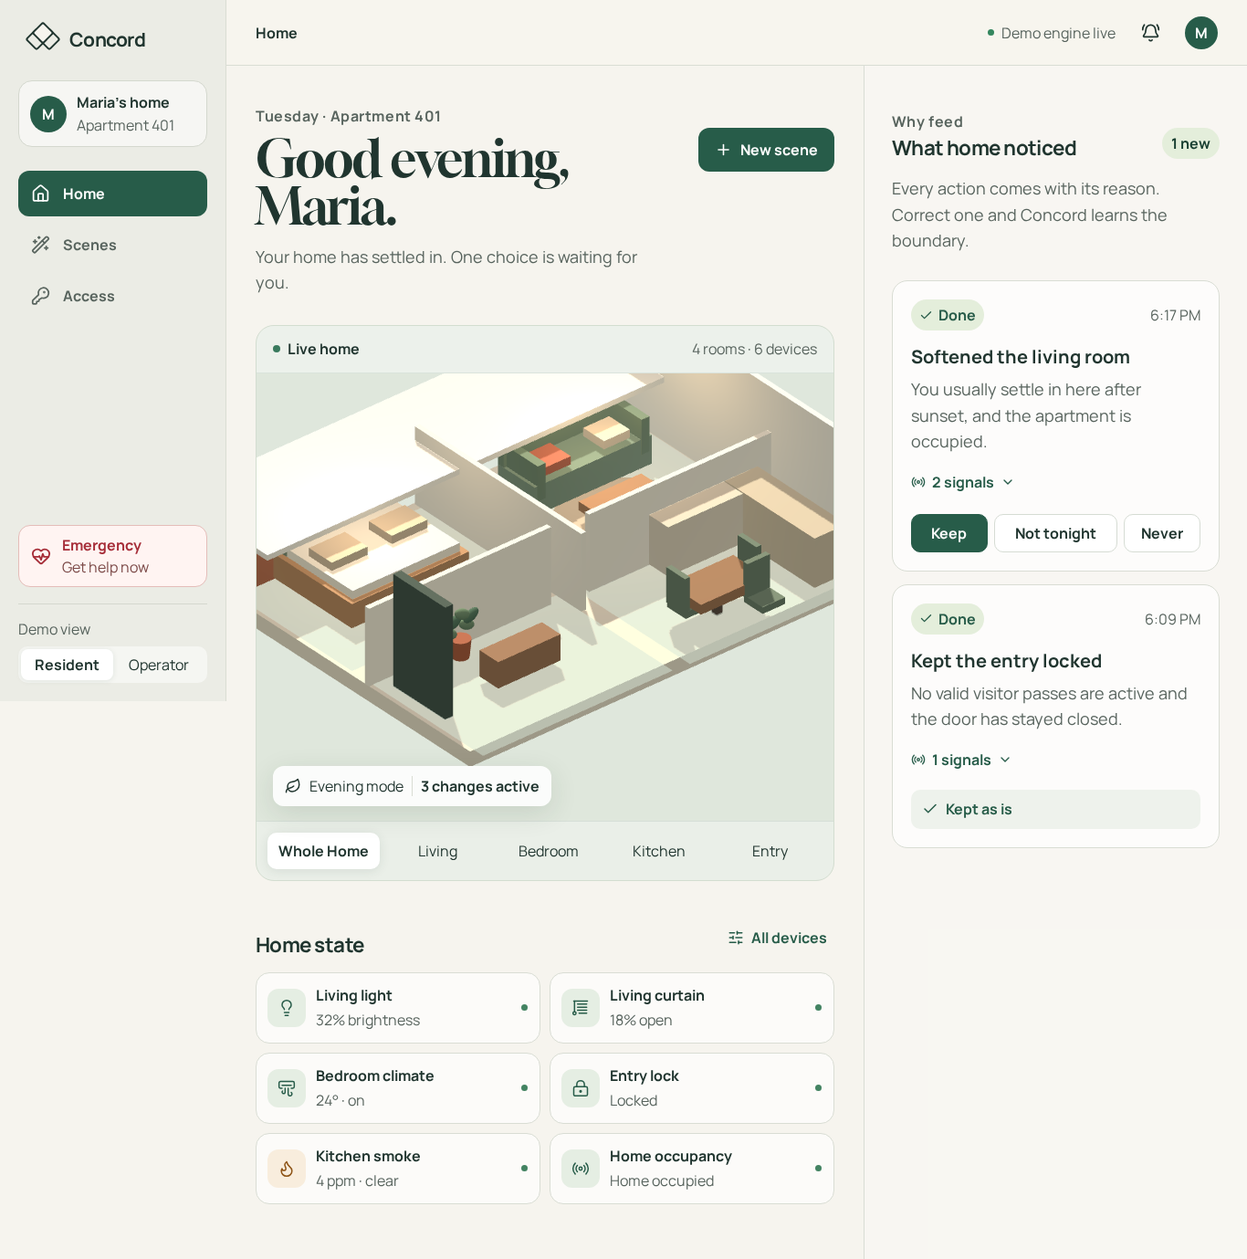
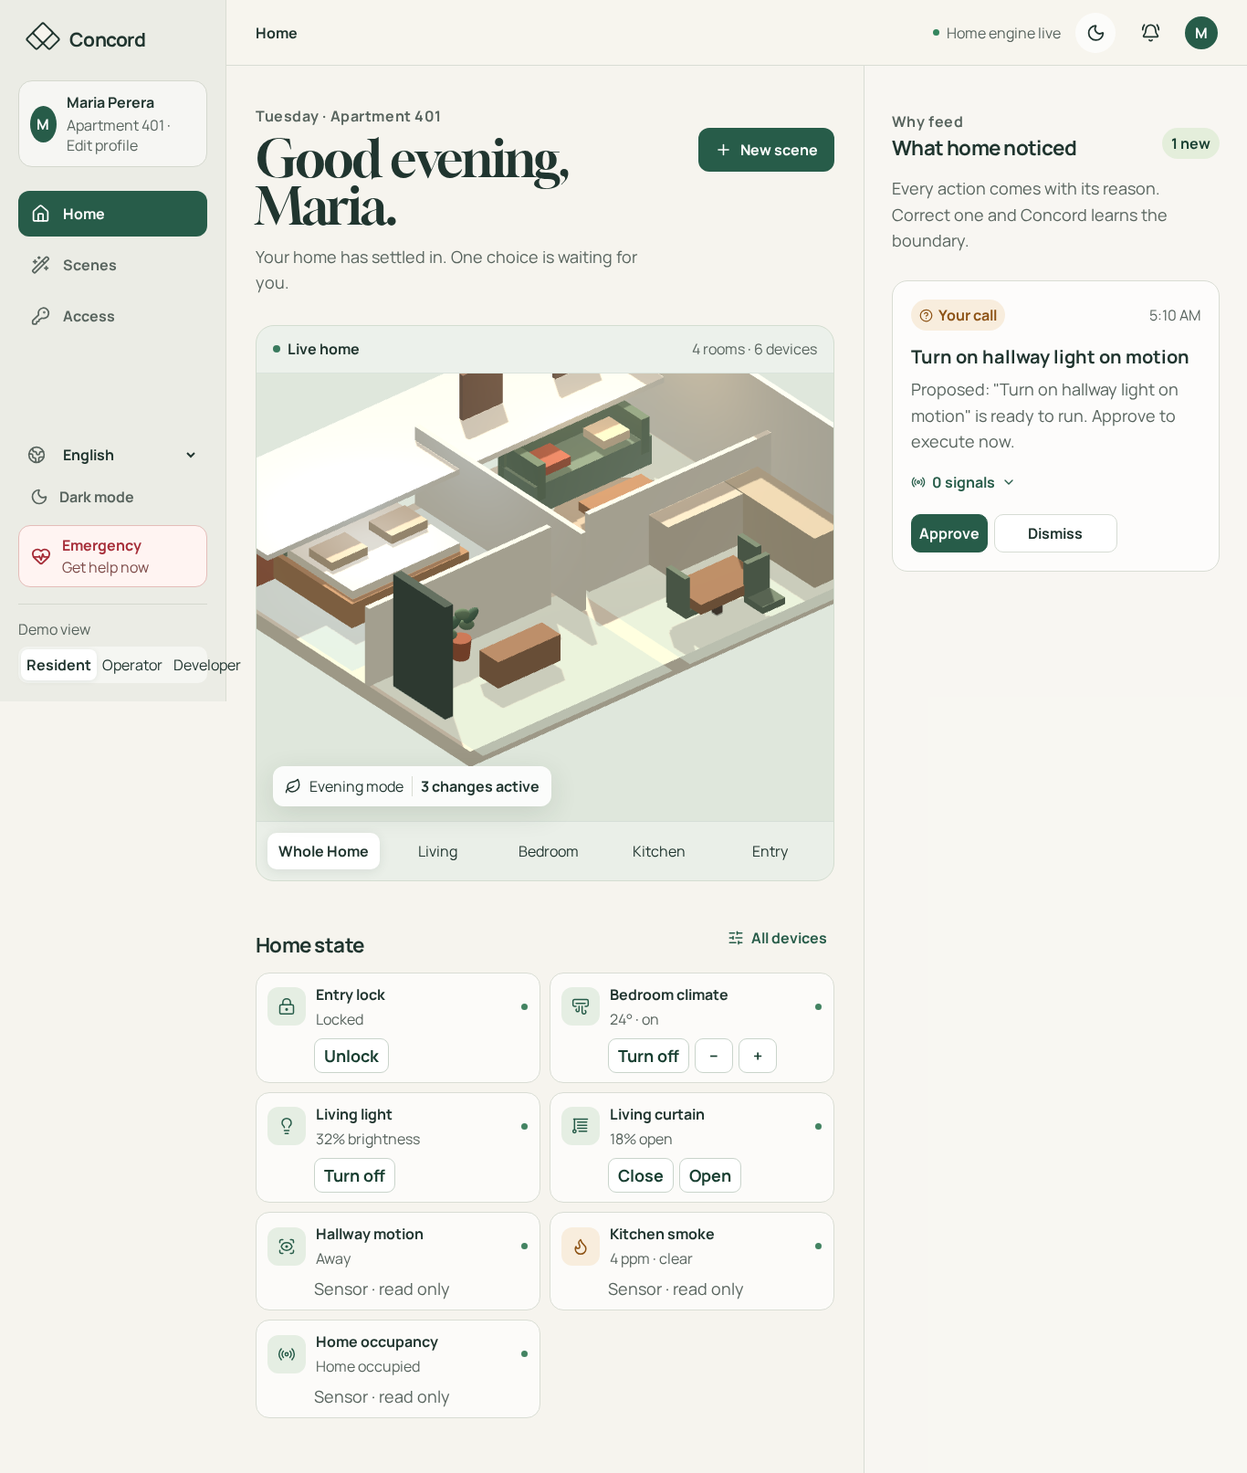
fix: integrate and verify Concord feature suite

diff --git a/src/styles.css b/src/styles.css
@@ -101,7 +101,7 @@ p { color: var(--muted); line-height: 1.58; }
 .desktop-topbar > div { display: flex; align-items: center; gap: 16px; }
 .connection { font-size: 16px; color: var(--muted); display: flex; align-items: center; gap: 8px; }
 .connection i { width: 7px; height: 7px; background: #34865e; border-radius: 50%; }
-.connection.reconnecting i { background: #b47b2a; animation: pulse 1.2s ease-in-out infinite; }.connection.stale i, .connection.offline i { background: #b6534f; }
+.connection.reconnecting i { background: #b47b2a; animation: pulse 280ms ease-out 2; }.connection.stale i, .connection.offline i { background: #b6534f; }
 .connection-banner { min-height: 48px; display: flex; align-items: center; justify-content: center; gap: 10px; padding: 8px 20px; color: #69442c; background: #fff0d8; border-bottom: 1px solid #e5c69b; font-size: 16px; }.connection-banner svg { width: 18px; }.connection-banner button { border: 0; background: transparent; color: var(--primary-dark); font-weight: 800; text-decoration: underline; cursor: pointer; font-size: 16px; }
 @keyframes pulse { 50% { opacity: .35; } }
 .notification-button, .icon-button { border: 0; background: transparent; cursor: pointer; width: 44px; height: 44px; display: grid; place-content: center; border-radius: 50%; }
@@ -317,14 +317,14 @@ input, select { min-height: 50px; border: 1px solid #cfd5cd; border-radius: 11px
 .notification-meta { display: flex; align-items: center; gap: 12px; color: var(--muted); font-size: 16px; }.notification-meta time { margin-left: auto; }
 .notification-row .secondary-button { min-height: 42px; white-space: nowrap; }.read-state { display: flex; align-items: center; gap: 6px; color: var(--muted); font-size: 16px; }.read-state svg { width: 17px; }
 .empty-notifications { text-align: center; padding: 90px 20px; }.empty-notifications > svg { width: 52px; height: 52px; color: var(--primary); stroke-width: 1.3; }.empty-notifications h2 { margin: 18px 0 8px; }
-.notification-skeleton { display: grid; gap: 1px; margin-top: 20px; }.notification-skeleton span { height: 110px; border-radius: 12px; background: color-mix(in srgb, var(--line) 45%, transparent); animation: pulse 1.3s ease-in-out infinite; }
+.notification-skeleton { display: grid; gap: 1px; margin-top: 20px; }.notification-skeleton span { height: 110px; border-radius: 12px; background: color-mix(in srgb, var(--line) 45%, transparent); animation: pulse 280ms ease-out 2; }
 .developer-view { min-height: calc(100dvh - 72px); max-width: 1560px; margin: 0 auto; padding: 50px clamp(22px, 4vw, 64px) 72px; }
 .developer-heading { display: flex; align-items: flex-end; justify-content: space-between; gap: 30px; }.developer-heading h1 { max-width: 800px; font-size: 4rem; }.developer-heading p { max-width: 720px; margin-bottom: 0; }.portfolio-updated { display: flex; align-items: center; gap: 8px; color: var(--muted); font-size: 16px; padding-bottom: 8px; }
 .portfolio-overview { display: grid; grid-template-columns: minmax(250px,.65fr) minmax(650px,2fr); gap: 1px; margin: 38px 0; overflow: hidden; border: 1px solid var(--line); border-radius: 17px; background: var(--line); }
 .portfolio-primary, .portfolio-measures > div { background: var(--surface); }.portfolio-primary { padding: 28px; display: flex; flex-direction: column; justify-content: center; }.portfolio-primary > strong { font-size: 56px; letter-spacing: -.04em; line-height: 1; }.portfolio-primary > strong small { font-size: 24px; color: var(--muted); }.portfolio-primary > span { margin-top: 10px; font-weight: 800; }.portfolio-primary p { margin: 5px 0 0; font-size: 16px !important; }
 .portfolio-measures { display: grid; grid-template-columns: repeat(4,1fr); gap: 1px; background: var(--line); }.portfolio-measures > div { min-width: 0; padding: 24px 18px; display: flex; align-items: flex-start; gap: 12px; }.portfolio-measures svg { width: 22px; color: var(--primary); flex: 0 0 auto; }.portfolio-measures span { min-width: 0; display: flex; flex-direction: column; color: var(--muted); font-size: 16px; }.portfolio-measures strong { color: var(--ink); font-size: 19px; margin-top: 9px; }.portfolio-measures small { margin-top: 4px; line-height: 1.4; }
 .developer-grid { display: grid; grid-template-columns: minmax(650px,1.55fr) minmax(300px,.65fr); gap: 34px; }.portfolio-table-section .section-heading > span { color: var(--muted); font-size: 16px; }.portfolio-table { border-top: 1px solid var(--line); }.portfolio-tr { min-height: 62px; display: grid; grid-template-columns: .65fr 1fr 1.1fr 1.2fr .8fr; gap: 12px; align-items: center; border-bottom: 1px solid var(--line); font-size: 16px; }.portfolio-th { min-height: 46px; color: var(--muted); font-weight: 700; }.fleet-label { display: flex; align-items: center; gap: 7px; text-transform: capitalize; }.fleet-label i { width: 8px; height: 8px; border-radius: 50%; background: #3d815f; }.fleet-label.attention i { background: var(--warning); }.fleet-label.anomaly i { background: var(--danger); }
-.portfolio-alerts { border-left: 1px solid var(--line); padding-left: 28px; }.portfolio-alerts .section-heading svg { width: 20px; color: var(--primary); }.portfolio-alerts article { display: grid; grid-template-columns: 42px 1fr; gap: 12px; padding: 18px 0; border-bottom: 1px solid var(--line); }.alert-mark { width: 40px; height: 40px; border-radius: 12px; display: grid; place-items: center; color: var(--warning); background: var(--warning-soft); }.alert-mark.anomaly { color: var(--danger); background: var(--danger-soft); }.alert-mark svg { width: 19px; }.portfolio-alerts p { margin: 5px 0; font-size: 16px !important; }.portfolio-alerts small { color: var(--muted); font-size: 16px; }.portfolio-loading { display: grid; grid-template-columns: .7fr 1fr 1fr; gap: 10px; margin-top: 40px; }.portfolio-loading span { height: 160px; border-radius: 15px; background: color-mix(in srgb, var(--line) 45%, transparent); animation: pulse 1.3s ease-in-out infinite; }.developer-error { margin-top: 30px; }
+.portfolio-alerts { border-left: 1px solid var(--line); padding-left: 28px; }.portfolio-alerts .section-heading svg { width: 20px; color: var(--primary); }.portfolio-alerts article { display: grid; grid-template-columns: 42px 1fr; gap: 12px; padding: 18px 0; border-bottom: 1px solid var(--line); }.alert-mark { width: 40px; height: 40px; border-radius: 12px; display: grid; place-items: center; color: var(--warning); background: var(--warning-soft); }.alert-mark.anomaly { color: var(--danger); background: var(--danger-soft); }.alert-mark svg { width: 19px; }.portfolio-alerts p { margin: 5px 0; font-size: 16px !important; }.portfolio-alerts small { color: var(--muted); font-size: 16px; }.portfolio-loading { display: grid; grid-template-columns: .7fr 1fr 1fr; gap: 10px; margin-top: 40px; }.portfolio-loading span { height: 160px; border-radius: 15px; background: color-mix(in srgb, var(--line) 45%, transparent); animation: pulse 280ms ease-out 2; }.developer-error { margin-top: 30px; }
 .building-heading { display: flex; justify-content: space-between; gap: 30px; align-items: flex-end; }
 .building-heading p { margin-bottom: 0; }.building-heading .primary-button { margin-bottom: 6px; }
 .building-stats { display: grid; grid-template-columns: repeat(3, 1fr); gap: 12px; margin: 34px 0 46px; }
@@ -396,6 +396,7 @@ input, select { min-height: 50px; border: 1px solid #cfd5cd; border-radius: 11px
   .app-shell { grid-template-columns: 210px minmax(0,1fr); }.sidebar { width: 210px; padding-inline: 14px; }.app-content { grid-column: 2; }
   .home-view { grid-template-columns: minmax(500px,1.1fr) minmax(340px,.9fr); }.home-main { padding-inline: 24px; }.activity-panel { padding-inline: 22px; }
   .scene-wrap { min-height: 330px; }.unit-grid { grid-template-columns: repeat(3,1fr); }
+  .portfolio-overview { grid-template-columns: 1fr; }.portfolio-measures { grid-template-columns: repeat(2,1fr); }.developer-grid { grid-template-columns: 1fr; }.portfolio-alerts { border-left: 0; border-top: 1px solid var(--line); padding: 28px 0 0; }
 }
 
 @media (max-width: 900px) {
@@ -406,8 +407,9 @@ input, select { min-height: 50px; border: 1px solid #cfd5cd; border-radius: 11px
   .route-frame { min-height: calc(100vh - 136px); }.home-view, .scenes-view, .access-view { display: block; }.home-main, .scene-compose, .access-form { border-right: 0; }.home-main { padding: 26px 16px 36px; }.greeting { margin-bottom: 20px; }.greeting h1 { font-size: 2.7rem; }.greeting p { font-size: 16px; line-height: 1.5; }.new-scene { display: none; }
   .scene-wrap { height: 275px; min-height: 275px; }.home-stage { border-radius: 17px; }.scene-caption { left: 10px; bottom: 10px; padding: 8px 10px; }.scene-caption strong { display: none; }.room-tabs { padding: 8px; }.room-tabs button { flex: 0 0 auto; min-height: 38px; }.devices-section { padding-top: 32px; }.device-grid { grid-template-columns: 1fr 1fr; }.activity-panel { padding: 34px 16px 45px; border-top: 1px solid var(--line); }.activity-intro { margin-bottom: 20px; }.why-card { padding: 18px; }
   .home-main .devices-section { display: block; }
-  .scenes-view, .access-view { min-height: auto; }.scene-compose, .access-form { padding: 34px 16px 42px; }.scene-compose h1, .access-form h1 { font-size: 2.7rem; }.prompt-box { grid-template-columns: 25px 1fr; }.prompt-box button { grid-column: 1 / -1; justify-content: center; }.scene-preview { position: relative; top: auto; height: 520px; grid-template-rows: 54px minmax(0,1fr) auto; }.preview-canvas { min-height: 300px; }.pass-preview { min-height: 520px; padding: 40px 16px; }
+  .scenes-view, .access-view { min-height: auto; }.scene-compose, .access-form { padding: 34px 16px 42px; }.scene-compose h1, .access-form h1 { font-size: 2.7rem; }.prompt-box { grid-template-columns: 25px 1fr; }.prompt-box button { grid-column: 1 / -1; justify-content: center; }.scene-preview { position: relative; top: auto; height: 520px; grid-template-rows: 54px minmax(0,1fr) auto; }.preview-canvas { min-height: 300px; }.pass-preview { min-height: 520px; padding: 40px 16px; }.manual-grid { grid-template-columns: 1fr; }
   .building-view { padding: 34px 16px 50px; }.building-heading { display: block; }.building-heading .primary-button { margin-top: 18px; }.building-stats { grid-template-columns: 1fr; margin-block: 28px 35px; }.building-stats > div { min-height: 80px; }.unit-grid { grid-template-columns: repeat(2,1fr); }.unit-section .section-heading { align-items: flex-start; flex-direction: column; }.filter-row { width: 100%; }.filter-row button { flex: 1; }
+  .profile-view, .notifications-view, .developer-view { min-height: auto; padding: 34px 16px 52px; }.profile-intro { grid-template-columns: 80px 1fr; gap: 18px; }.profile-avatar-large { width: 80px; height: 80px; border-radius: 24px; font-size: 32px; }.profile-intro h1, .notifications-heading h1, .developer-heading h1 { font-size: 2.7rem; }.notifications-heading, .developer-heading { align-items: flex-start; flex-direction: column; }.notification-row { grid-template-columns: 42px minmax(0,1fr); }.notification-row > .secondary-button, .notification-row > .read-state { grid-column: 2; justify-self: start; }.notification-meta { align-items: flex-start; flex-direction: column; gap: 4px; }.notification-meta time { margin-left: 0; }.portfolio-measures { grid-template-columns: 1fr; }.portfolio-overview { min-width: 0; }.portfolio-table { overflow-x: auto; }.portfolio-tr { min-width: 720px; }.portfolio-updated { padding: 0; }
   .toast { bottom: 86px; left: 12px; right: 12px; min-width: 0; }.dialog-backdrop { align-items: end; padding: 0; }.dialog-panel { width: 100%; max-height: 92vh; border-radius: 20px 20px 0 0; }.rule-compare { grid-template-columns: 1fr; }.conflict-vs { min-height: 28px; }.sos-detail { grid-template-columns: 1fr; }.form-two { grid-template-columns: 1fr; }
 }
 
@@ -415,6 +417,7 @@ input, select { min-height: 50px; border: 1px solid #cfd5cd; border-radius: 11px
   .greeting h1 { font-size: 2.5rem; }.stage-heading > span { display: none; }.device-grid { grid-template-columns: 1fr; }.device-item:nth-child(n+5) { display: none; }
   .why-actions { grid-template-columns: 1fr 1.35fr 1fr; }.why-actions button { font-size: 16px; padding-inline: 5px; }.segmented { grid-template-columns: 1fr; }.segmented button { min-height: 48px; justify-content: flex-start; padding-left: 18px; }
   .receipt-title { grid-template-columns: 42px 1fr; }.draft-pill { display: none; }.rule-line { grid-template-columns: 72px 1fr; padding-inline: 15px; }.receipt-actions { display: grid; grid-template-columns: 1fr 1.5fr; }.unit-grid { grid-template-columns: 1fr 1fr; gap: 8px; }.unit-card { padding: 13px; min-height: 185px; }.building-heading h1 { font-size: 2.7rem; }
+  .mobile-header .notification-button { width: 38px; height: 38px; }.profile-intro { grid-template-columns: 1fr; }.manual-builder { padding: 16px; }.manual-builder-heading { flex-direction: column; }.scene-method { width: 100%; }.recurring-days > div { grid-template-columns: repeat(4,1fr); }.segmented.two { grid-template-columns: 1fr; }.visitor-card { padding: 18px; }.visitor-qr { width: 190px; height: 190px; }
 }
 
 @media (prefers-reduced-motion: reduce) {

diff --git a/src/App.tsx b/src/App.tsx
@@ -623,9 +623,9 @@ function App() {
   if (loadError && devices.length === 0) return <div className="boot-screen boot-error" role="alert"><BrandMark /><strong>{t('Home engine offline')}</strong><span>{loadError}</span><button className="primary-button" onClick={() => setRetryKey((value) => value + 1)}>{t('Retry connection')}</button></div>;
   const connectionCopy: Record<ConnectionState, string> = { live: t('Home engine live'), reconnecting: t('Reconnecting…'), stale: t('Data may be stale'), offline: t('Engine offline') };
   return <div className={`app-shell ${role}`}>
-    <header className="mobile-header"><button className="brand-mobile" onClick={() => { setRoute(role === 'operator' ? 'building' : 'home'); }}><BrandMark /><span>Concord</span></button><div><button className="icon-button" onClick={toggleTheme} aria-label={t(theme === 'light' ? 'Use dark mode' : 'Use light mode')}>{theme === 'light' ? <Moon /> : <Sun />}</button><button className="emergency-compact" onClick={() => setSosOpen(true)}><HeartPulse /> {t('Emergency')}</button><button className="icon-button" onClick={() => setMobileMenu((v) => !v)} aria-label={t('Open menu')}>{mobileMenu ? <X /> : <Menu />}</button></div></header>
+    <header className="mobile-header"><button className="brand-mobile" onClick={() => { setRoute(role === 'operator' ? 'building' : role === 'developer' ? 'developer' : 'home'); }}><BrandMark /><span>Concord</span></button><div><button className="notification-button" aria-label={t('Notifications')} onClick={() => { setRole('resident'); setRoute('notifications'); void refreshNotifications(); }}><BellRing />{notifications.some((item) => !item.read) && <span className="unread-badge">{Math.min(99, notifications.filter((item) => !item.read).length)}</span>}</button><button className="emergency-compact" onClick={() => setSosOpen(true)}><HeartPulse /> {t('Emergency')}</button><button className="icon-button" onClick={() => setMobileMenu((v) => !v)} aria-label={t('Open menu')}>{mobileMenu ? <X /> : <Menu />}</button></div></header>
     <aside className={`sidebar ${mobileMenu ? 'mobile-open' : ''}`}>
-      <button className="brand" onClick={() => setRoute(role === 'operator' ? 'building' : 'home')}><BrandMark /><span>Concord</span></button>
+      <button className="brand" onClick={() => setRoute(role === 'operator' ? 'building' : role === 'developer' ? 'developer' : 'home')}><BrandMark /><span>Concord</span></button>
       <button className="residence-chip" onClick={() => role === 'resident' && setRoute('profile')}><div className="residence-avatar">{role === 'resident' ? profile.photo ? <img src={profile.photo} alt="" /> : profile.name[0] : <Building2 />}</div><span><strong>{role === 'resident' ? profile.name : role === 'developer' ? t('Concord Portfolio') : 'Aster Tower'}</strong><small>{role === 'resident' ? t('Apartment 401 · Edit profile') : t(role === 'developer' ? 'Developer overview' : 'Building')}</small></span></button>
       <nav aria-label={t('Primary navigation')}>{role === 'resident' ? NAV.map(({ id, label, icon: Icon }) => <button key={id} className={route === id ? 'active' : ''} onClick={() => { setRoute(id); setMobileMenu(false); }}><Icon />{t(label)}</button>) : <button className="active"><LayoutGrid />{t(role === 'developer' ? 'Portfolio' : 'Building')}</button>}</nav>
       <div className="sidebar-spacer" />

diff --git a/qa/content-audit.md b/qa/content-audit.md
@@ -1,6 +1,6 @@
 # Concord content, readability and loading audit
 
-Audit target: production preview at `http://127.0.0.1:4192`, desktop 1440×900 and mobile 390×844. Evidence is from the final production bundle. `qa/text-floor.mjs` inspects every visible element with its own rendered text across Home, Scenes, Access and Building, plus the mobile Home viewport; it fails if any computed text size is below 16px.
+Audit target: production preview at `http://127.0.0.1:5190`, desktop 1440×900 and mobile 390×844. Evidence is from the final production bundle. `qa/text-floor.mjs` inspects every visible element with its own rendered text across Home, Scenes, Access and Building, plus the mobile Home viewport; it fails if any computed text size is below 16px. The 2026-09-17 browser suite additionally rendered Profile, Notifications, the manual builder, Developer portfolio and the standalone visitor pass at their responsive layouts.
 
 ## Typography evidence
 
@@ -32,6 +32,12 @@ Ratios use WCAG relative luminance against the actual stable surface colors. Mov
 
 All recorded information pairs exceed 4.5:1.
 
+Dark-mode tokens were checked against their actual stable surfaces after the feature
+suite landed: primary/muted text measure 16.12:1 and 9.99:1 on `#111815`, 14.26:1 and
+8.84:1 on `#1A2420`; primary-action, accent, danger and warning pairs measure 7.70:1,
+7.54:1, 7.06:1 and 7.51:1 respectively. The language switch was also rendered in Spanish
+before returning to English for the remaining functional checks.
+
 ## Section media accounting
 
 | Screen / section | C | V | Pairing / exemption |
@@ -42,6 +48,8 @@ All recorded information pairs exceed 4.5:1.
 | Scene builder + rule receipt | exempt | exempt | form/editor flow; live architectural preview is additional state evidence |
 | Visitor pass | exempt | exempt | form plus generated credential, not marketing content |
 | Building units | exempt | exempt | operational data grid |
+| Profile and Notifications | exempt | exempt | profile form and functional engine event list |
+| Developer portfolio | exempt | exempt | aggregate operational metrics, unit health table and alert list; no marketing claims or resident behavior |
 | Safety, SOS and handover dialogs | exempt | exempt | transactional/safety flows |
 
 The code-authored scene changes room emphasis and preview lighting, so these are distinct explanatory states rather than one repeated decorative image.
@@ -54,7 +62,8 @@ The code-authored scene changes room emphasis and preview lighting, so these are
 | `manrope-600.woff2` | eager CSS `@font-face`, `font-display: swap` | local, 14,172 bytes |
 | `manrope-700.woff2` | eager CSS `@font-face`, `font-display: swap` | local, 14,212 bytes |
 | `editorial-serif.woff2` | eager CSS `@font-face`, `font-display: swap` | local, 26,356 bytes |
-| `pass-qr.svg` | interaction-created `.qr-ticket img`; eager browser default because it is immediately visible when inserted | SVG viewBox 37×37; reserved by CSS at 195×195px, avoiding layout shift inside the already-sized ticket |
+| Generated pass QR data URL | interaction-created `.qr-ticket img` and standalone `.visitor-qr`; eager browser default because each is immediately visible when inserted | SVG dimensions derive from the encoded grant; CSS reserves 195×195px resident and 210×210px visitor slots, avoiding layout shift inside the already-sized cards |
+| Uploaded profile image | session-created object/data URL in `.profile-avatar-large img` and the resident avatar; eager because it is immediately visible after selection | constrained to JPEG/PNG/WebP up to 3 MB; fixed 112×112px desktop and 80×80px mobile containers prevent layout shift |
 | Three.js apartment | `.home-canvas`; initialized after shell mount | canvas fills a fixed-height `.scene-wrap`, DPR capped at 1.5; no network asset requests |
 | SVG fallback | `.scene-fallback`; forced with `?renderer=fallback` or WebGL failure/context loss | same scene container dimensions; room controls remain functional |
 

diff --git a/STUDIO.md b/STUDIO.md
@@ -307,3 +307,46 @@ Checkpoint evidence:
 - `qa/final/screenshots.json` covers desktop, laptop and mobile production-preview renders.
 - `qa/motion-final/motion.json` covers temporal desktop/mobile captures, reduced motion,
   WebGL state reporting and the forced non-canvas fallback.
+
+## Resident, visitor and developer feature suite — 2026-09-17
+
+The existing resident/operator experience and live automation loop remain intact. The
+suite was delivered as one reviewable commit per requested feature:
+
+- `eb996ad`: system-aware light/dark theme with an explicit persisted choice.
+- `f5b9a50`: English/Spanish i18n provider, switcher and externalized visible UI copy.
+- `055119c`: session-only resident name and local profile-picture editing.
+- `6c1edea`: live `/fetchNotifications` feed, unread badges and `/markNotificationRead`.
+- `942be52`: dated and weekly recurring grants through `/createGrant`, plus native share
+  with clipboard fallback and explicit backend-redemption wording.
+- `c4028e8`: isolated `/visitor-pass/:grantId` view with pass, QR, destination, window and
+  pending/active/expired state; it exposes no resident controls or resident profile data.
+- `1c2a793`: Developer role backed by `/fetchPortfolio`, limited to building aggregates,
+  fleet/maintenance/handover/energy summaries and recent building alerts.
+- `aa98fc5`: structured Trigger / Condition / Action builder using the same editable Rule
+  receipt, conflict check and `/saveRule` path as natural-language scenes.
+
+Integration adds a mobile notification entry point, responsive layouts for every new
+screen, and shorter ease-out loading/status signals. Theme and language are the only
+persisted client preferences, explicitly requested for this demo; profile image/name stay
+in React memory. The shipped HTTP adapter remains mandatory (`26de6e1`); no mock fallback
+was introduced.
+
+Verification against `http://127.0.0.1:8790` and the production preview:
+
+- Playwright exercised theme persistence, English/Spanish switching, profile/photo update,
+  notification read state, a Saturday 17:00–21:00 recurring grant, isolated visitor view,
+  live developer portfolio, a manual curtain rule saved through the engine, and the existing
+  bedroom AC natural-language path. All passed.
+- Direct `/submitSentence` checks: bedroom AC resolved to `dev_ac_bedroom` with HTTP 200;
+  kitchen lights and vague input returned `NEEDS_CLARIFICATION` with HTTP 422 and created,
+  saved and executed nothing.
+- `npm test`, `npm run build`, the anti-slop scan and motion audit pass. Vite still reports
+  the already-known large main-chunk warning.
+- `qa/screenshots.json` records clean desktop/laptop/mobile captures with no broken resources
+  or horizontal overflow. `qa/motion/motion.json` records desktop/mobile temporal states,
+  reduced motion and the working SVG fallback. The associated frames were visually inspected.
+
+Demo limits remain explicit: uploaded profile images are local memory only; visitor links use
+demo grant identifiers/backup codes; the engine validates redemption and the QR alone never
+unlocks a door. Native sharing depends on browser support and otherwise copies the pass URL.
